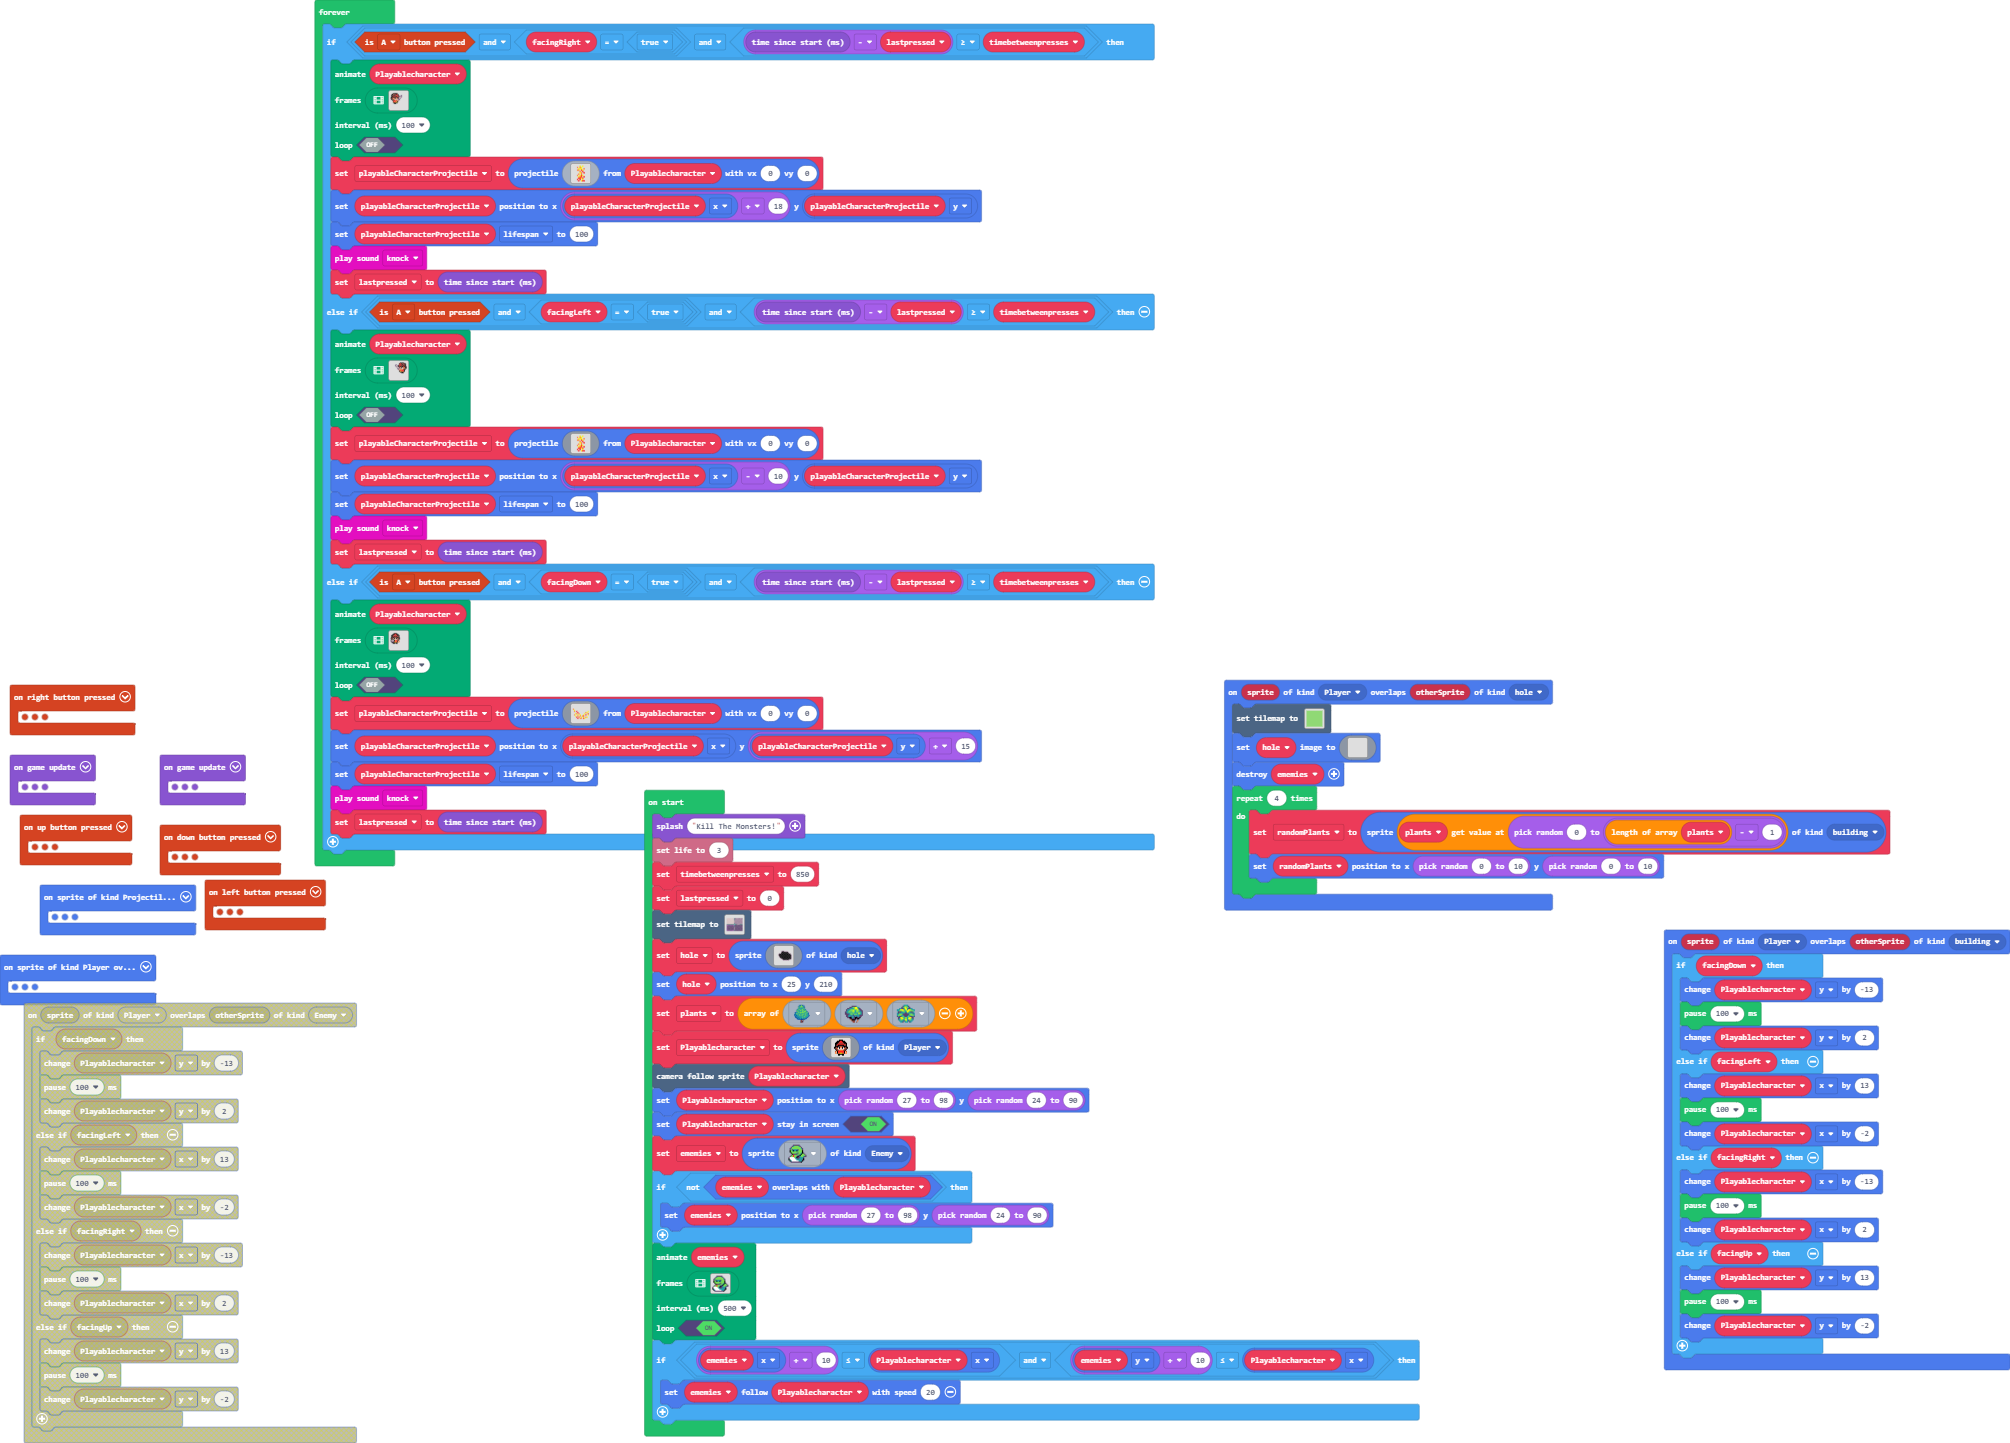
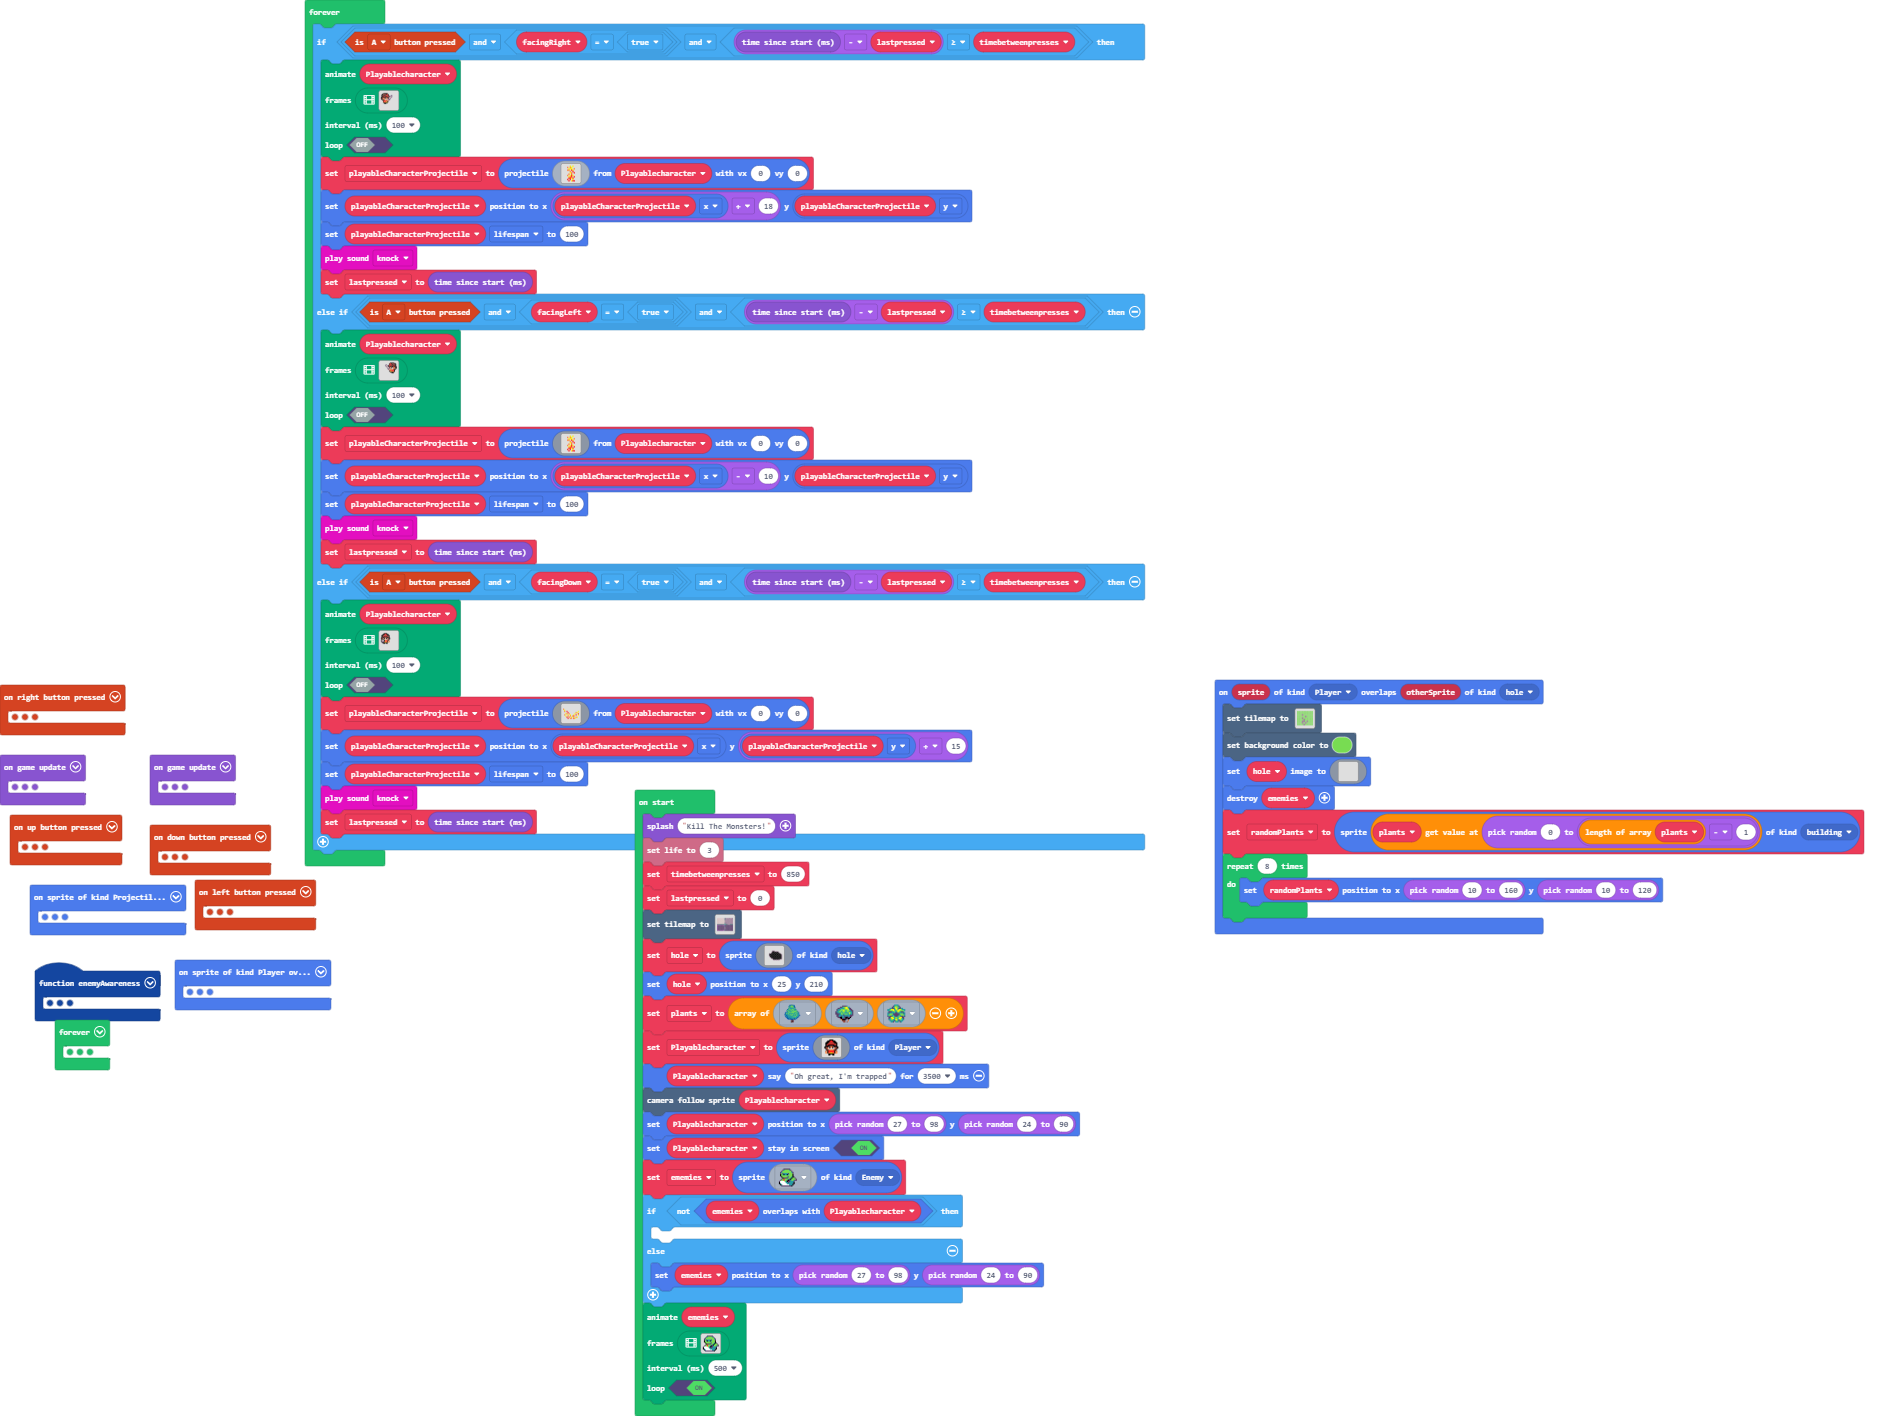
added enemy "ai" and other tweaks

Changed region(s): [[0.0, 0.0, 1.0, 1.0], [0.3434, 0.0, 0.6243, 0.0621]]

diff --git a/main.ts b/main.ts
@@ -82,23 +82,20 @@ controller.up.onEvent(ControllerButtonEvent.Pressed, function () {
     true
     )
 })
+function enemyAwareness () {
+    if ((ememies.x + 20 >= Playablecharacter.x || ememies.x - 20 <= Playablecharacter.x) && (ememies.y + 20 >= Playablecharacter.y || ememies.y - 20 <= Playablecharacter.y)) {
+        ememies.follow(Playablecharacter, 20)
+    }
+}
 sprites.onOverlap(SpriteKind.Player, SpriteKind.building, function (sprite, otherSprite) {
     if (facingDown) {
-        Playablecharacter.y += -13
-        pause(100)
-        Playablecharacter.y += 2
+        Playablecharacter.y += -5
     } else if (facingLeft) {
-        Playablecharacter.x += 13
-        pause(100)
-        Playablecharacter.x += -2
+        Playablecharacter.x += 5
     } else if (facingRight) {
-        Playablecharacter.x += -13
-        pause(100)
-        Playablecharacter.x += 2
+        Playablecharacter.x += -5
     } else if (facingUp) {
-        Playablecharacter.y += 13
-        pause(100)
-        Playablecharacter.y += -2
+        Playablecharacter.y += 5
     }
 })
 controller.left.onEvent(ControllerButtonEvent.Pressed, function () {
@@ -182,6 +179,7 @@ controller.left.onEvent(ControllerButtonEvent.Pressed, function () {
 })
 sprites.onOverlap(SpriteKind.Player, SpriteKind.hole, function (sprite, otherSprite) {
     tiles.setTilemap(tilemap`level4`)
+    scene.setBackgroundColor(7)
     hole.setImage(img`
         . . . . . . . . . . . . . . . . 
         . . . . . . . . . . . . . . . . 
@@ -201,9 +199,9 @@ sprites.onOverlap(SpriteKind.Player, SpriteKind.hole, function (sprite, otherSpr
         . . . . . . . . . . . . . . . . 
         `)
     ememies.destroy()
-    for (let index = 0; index < 4; index++) {
-        randomPlants = sprites.create(plants[randint(0, plants.length - 1)], SpriteKind.building)
-        randomPlants.setPosition(randint(0, 10), randint(0, 10))
+    randomPlants = sprites.create(plants[randint(0, plants.length - 1)], SpriteKind.building)
+    for (let index = 0; index < 8; index++) {
+        randomPlants.setPosition(randint(10, 160), randint(10, 120))
     }
 })
 controller.right.onEvent(ControllerButtonEvent.Pressed, function () {
@@ -367,25 +365,6 @@ controller.down.onEvent(ControllerButtonEvent.Pressed, function () {
 sprites.onOverlap(SpriteKind.Projectile, SpriteKind.Enemy, function (sprite, otherSprite) {
     ememies.destroy()
 })
-sprites.onOverlap(SpriteKind.Player, SpriteKind.Enemy, function (sprite, otherSprite) {
-    if (facingDown) {
-        Playablecharacter.y += -13
-        pause(100)
-        Playablecharacter.y += 2
-    } else if (facingLeft) {
-        Playablecharacter.x += 13
-        pause(100)
-        Playablecharacter.x += -2
-    } else if (facingRight) {
-        Playablecharacter.x += -13
-        pause(100)
-        Playablecharacter.x += 2
-    } else if (facingUp) {
-        Playablecharacter.y += 13
-        pause(100)
-        Playablecharacter.y += -2
-    }
-})
 let playableCharacterProjectile: Sprite = null
 let randomPlants: Sprite = null
 let facingDown = false
@@ -439,11 +418,14 @@ Playablecharacter = sprites.create(img`
     . . . . . f f f f f f . . . . . 
     . . . . . f f . . f f . . . . . 
     `, SpriteKind.Player)
+Playablecharacter.say("Oh great, I'm trapped", 3500)
 scene.cameraFollowSprite(Playablecharacter)
 Playablecharacter.setPosition(randint(27, 98), randint(24, 90))
 Playablecharacter.setStayInScreen(true)
 ememies = sprites.create(sprites.builtin.forestSnake0, SpriteKind.Enemy)
 if (!(ememies.overlapsWith(Playablecharacter))) {
+	
+} else {
     ememies.setPosition(randint(27, 98), randint(24, 90))
 }
 animation.runImageAnimation(
@@ -486,9 +468,6 @@ ememies,
 500,
 true
 )
-if (ememies.x + 10 <= Playablecharacter.x && ememies.y + 10 <= Playablecharacter.x) {
-    ememies.follow(Playablecharacter, 20)
-}
 game.onUpdate(function () {
     Playablecharacter.y += controller.dy(70)
 })
@@ -894,5 +873,37 @@ forever(function () {
         playableCharacterProjectile.lifespan = 100
         music.knock.play()
         lastpressed = game.runtime()
+    }
+})
+forever(function () {
+    enemyAwareness()
+    if (ememies.overlapsWith(Playablecharacter) && facingDown) {
+        Playablecharacter.y += -13
+        pause(50)
+        Playablecharacter.y += 2
+        ememies.follow(Playablecharacter, 0)
+        pause(500)
+        ememies.follow(Playablecharacter, 20)
+    } else if (ememies.overlapsWith(Playablecharacter) && facingLeft) {
+        Playablecharacter.x += 13
+        pause(50)
+        Playablecharacter.x += -2
+        ememies.follow(Playablecharacter, 0)
+        pause(500)
+        ememies.follow(Playablecharacter, 20)
+    } else if (ememies.overlapsWith(Playablecharacter) && facingRight) {
+        Playablecharacter.x += -13
+        pause(50)
+        Playablecharacter.x += 2
+        ememies.follow(Playablecharacter, 0)
+        pause(500)
+        ememies.follow(Playablecharacter, 20)
+    } else if (ememies.overlapsWith(Playablecharacter) && facingUp) {
+        Playablecharacter.y += 13
+        pause(50)
+        Playablecharacter.y += -2
+        ememies.follow(Playablecharacter, 0)
+        pause(500)
+        ememies.follow(Playablecharacter, 20)
     }
 })

diff --git a/tilemap.g.ts b/tilemap.g.ts
@@ -170,24 +170,17 @@ namespace myTiles {
 22222222222..........
 `, [myTiles.transparency16,sprites.dungeon.floorLight0,sprites.dungeon.darkGroundCenter,sprites.dungeon.floorLight1,sprites.dungeon.floorLightMoss,sprites.dungeon.floorLight4,sprites.dungeon.floorDark0,sprites.dungeon.floorDark1,sprites.dungeon.floorDark3,sprites.dungeon.stairEast,sprites.dungeon.stairSouth,sprites.dungeon.stairWest,sprites.dungeon.purpleOuterNorth2,sprites.dungeon.purpleOuterSouth2,sprites.dungeon.purpleOuterNorth1,sprites.dungeon.purpleOuterNorthEast,sprites.dungeon.purpleOuterNorthWest,sprites.dungeon.purpleOuterSouthEast,sprites.dungeon.purpleOuterSouthWest,sprites.dungeon.purpleOuterSouth1,sprites.dungeon.purpleOuterEast0,sprites.dungeon.purpleOuterWest1,sprites.dungeon.purpleInnerSouthWest,sprites.dungeon.purpleInnerNorthWest,sprites.dungeon.greenOuterNorth0,sprites.dungeon.greenOuterEast0,sprites.dungeon.collectibleInsignia], TileScale.Sixteen);
             case "level4":
-            case "level4":return tiles.createTilemap(hex`1000100001010101010101010101010101010101010101010101010101010101010101010101010101010101010101010101010101010101010101010101010101010101010101010101010101010101010101010101010101010101010101010101010101010101010101010101010101010101010101010101010101010101010101010101010101010101010101010101010101010101010101010101010101010101010101010101010101010101010101010101010101010101010101010101010101010101010101010101010101010101010101010101010101010101010101010101010101010101010101010101010101010101010101010101010101010101`, img`
-. . . . . . . . . . . . . . . . 
-. . . . . . . . . . . . . . . . 
-. . . . . . . . . . . . . . . . 
-. . . . . . . . . . . . . . . . 
-. . . . . . . . . . . . . . . . 
-. . . . . . . . . . . . . . . . 
-. . . . . . . . . . . . . . . . 
-. . . . . . . . . . . . . . . . 
-. . . . . . . . . . . . . . . . 
-. . . . . . . . . . . . . . . . 
-. . . . . . . . . . . . . . . . 
-. . . . . . . . . . . . . . . . 
-. . . . . . . . . . . . . . . . 
-. . . . . . . . . . . . . . . . 
-. . . . . . . . . . . . . . . . 
-. . . . . . . . . . . . . . . . 
-`, [myTiles.transparency16,sprites.castle.tileGrass2,myTiles.tile1], TileScale.Sixteen);
[1 lines of base64/hex data omitted]
+. . . . . . . . . . 
+. . . . . . . . . . 
+. . . . . . . . . . 
+. . . . . . . . . . 
+. . . . . . . . . . 
+. . . . . . . . . . 
+. . . . . . . . . . 
+. . . . . . . . . . 
+. . . . . . . . . . 
+`, [myTiles.transparency16,sprites.castle.tileGrass2,sprites.castle.rock2], TileScale.Sixteen);
         }
         return null;
     })
